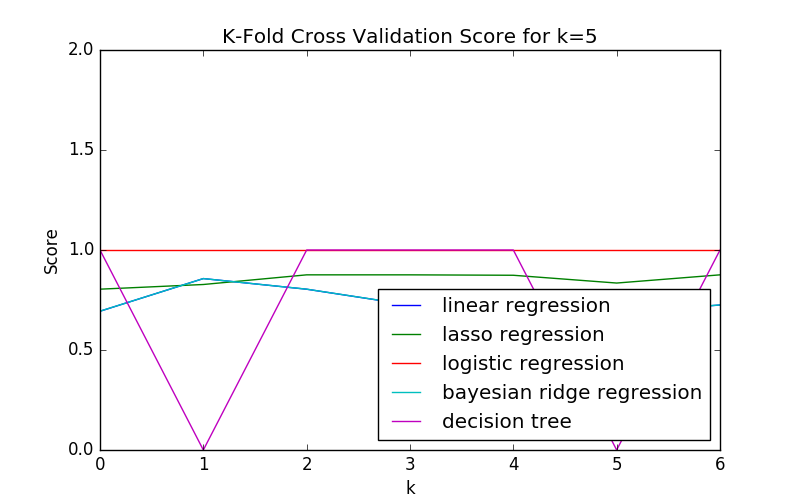
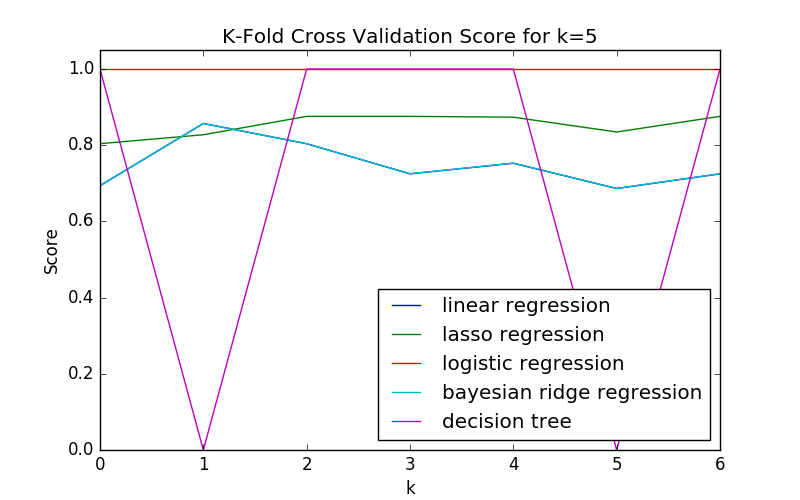
Update scale of CV image

diff --git a/model/run_models.py b/model/run_models.py
@@ -104,7 +104,7 @@ plt.plot(bay_reg_cv_score, lw=linewidth, label='bayesian ridge regression')
 plt.plot(dec_tree_cv_score, lw=linewidth, label='decision tree')
 
 plt.xlim([0, cross_validation_k + 1])
-plt.ylim([0, 2])
+plt.ylim([0, 1.05])
 plt.xlabel('k')
 plt.ylabel('Score')
 plt.title('K-Fold Cross Validation Score for k=%s' % cross_validation_k)
